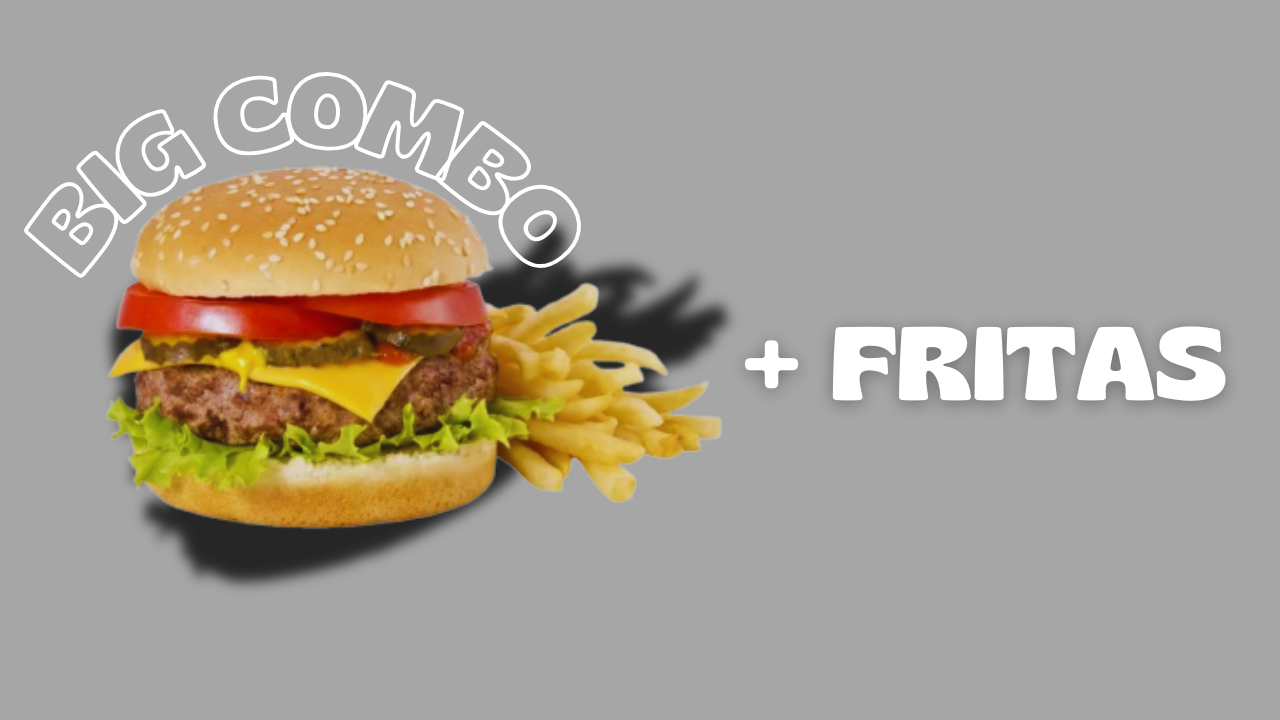
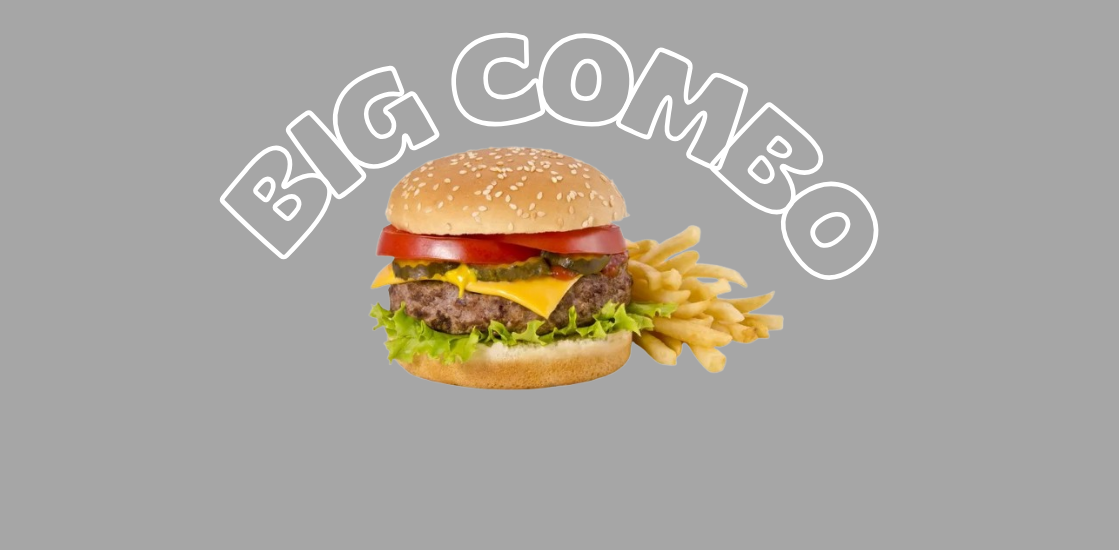
Início Ok!

Changed region(s): [[0.0, 0.0618, 0.9723, 0.8345]]

diff --git a/index.html b/index.html
@@ -3,14 +3,15 @@
 <head>
     <meta charset="UTF-8">
     <meta name="viewport" content="width=device-width, initial-scale=1.0">
-    <link rel="stylesheet" href="/Css/style.css">
     <link rel="stylesheet" href="/Css/root.css">
+    <link rel="stylesheet" href="/Css/style.css">
+    <link rel="stylesheet" href="/Css/responsiveness.css">
     <title>Delícia de Lanche</title>
 </head>
 <body>
     <header class="header-guide">
         <div class="logo">
-            <img src="/imgs/marca/logo.png" alt="logo" width="200">
+            <img src="/imgs/marca/logo.png" alt="logo">
         </div>
         <nav class="navegation">
             <a href="">Início</a>
@@ -48,8 +49,35 @@
                 </span>
             </div>
             <div class="products_contents">
-                <div class="all_products">
-                   <img src="/imgs/lanches_slide/doublechiken.png" alt="">
+                <div class="products_slide">
+                    <input type="radio" name="radio-btn" id="radio1">
+                    <input type="radio" name="radio-btn" id="radio2">
+                    <input type="radio" name="radio-btn" id="radio3">
+                    
+                    <span class="slide first">
+                        <img src="/imgs/lanches_slide/doublechiken.png" alt="Double Chiken">
+                    </span>
+                    <span class="slide">
+                        <img src="/imgs/lanches_slide/bigcombo.png" alt="Big Combo">
+                    </span>
+                    <span class="slide">
+                        <img src="/imgs/lanches_slide/bigmash.png" alt="Bigc Mash">
+                    </span>
+                    
+                    <div class="navigation-auto">
+                        <div class="auto_btn1">
+                        </div>
+                        <div class="auto_btn2">
+                        </div>
+                        <div class="auto_btn3">
+                        </div>
+                    </div>
+                    
+                    <div class="manual_navigation">
+                        <label for="radio1" class="manual_btn"></label>
+                        <label for="radio2" class="manual_btn"></label>
+                        <label for="radio3" class="manual_btn"></label>
+                    </div>
                 </div>
             </div>
         </div>
@@ -72,5 +100,6 @@
             
         </span>
     </footer>
+    <script src="/Js/main.js"></script>
 </body>
 </html>

diff --git a/Css/style.css b/Css/style.css
@@ -15,7 +15,8 @@ body{
     display: flex;
     align-items: center;
     position: relative;
-    width: 90%; 
+    width: 100%; 
+    height: 5.5rem;
     background-color: var(--background-color);
     box-shadow: var(--shadow-box);
     padding: 10px 20px;
@@ -23,9 +24,9 @@ body{
     border-radius: 10px;
 }
 
-.header-guide .logo{
-    display: flex;
-    align-items: center;
+.header-guide .logo img{
+    margin-left: 20px;
+    width: 10rem;
 }
 
 .navegation{
@@ -86,7 +87,8 @@ body{
 }
 
 .produts .produt-card img{
-    width: 250px;
+    max-width: 250px;
+    min-width: 50px;
     padding: 40px;
     cursor: pointer;
 }
@@ -110,20 +112,102 @@ body{
 /* Caixa de produtos*/
 
 .products_contents{
-    width: 100%;
-    height: auto;
-    border: solid 1px;
+    margin: 0 auto;
+    width: 90%;
     border-radius: 10px;
     overflow: auto;
-    box-shadow: 0px 0px 30px 5px;
+    box-shadow: 0px 0px 30px;
+    overflow: hidden;
 }
 
-.products_contents h1{
-    text-align: center;
+.products_slide input{
+    display: none;
 }
 
-.products_contents img{
+.products_slide{
+    width: 400%;
+    height: auto;
+    display: flex;
+}
+
+.slide{
+    width: 25%;
+    position: relative;
+    transition: ease-out 1.5s;
+}
+
+.slide img{
     width: 100%;
+}
+
+.manual_navigation{
+    position: absolute;
+    width: 80%;
+    margin-top: 39%;
+    display: flex;
+    justify-content: center;
+}
+
+.manual_btn{
+    cursor: pointer;
+    border: 2px solid whitesmoke;
+    padding: 5px;
+    border-radius: 10px;
+    transition: 0.5s;
+}
+
+.manual_btn:not(:last-child){
+    margin-right: 20px;
+}
+
+.manual_btn:hover{
+    background-color: rgb(126, 126, 126);
+}
+
+.navigation-auto div{
+    border: 2px solid blue;
+    padding: 5px;
+    border-radius: 10px;
+    cursor: pointer;
+    transition: 0.5s;
+}
+
+.navigation-auto{
+    position: absolute;
+    width: 80%;
+    margin-top: 39%;
+    display: flex;
+    justify-content: center;
+}
+
+.navigation-auto div:not(:last-child){
+    margin-right: 20px;
+}
+
+/* Slide function*/
+
+#radio1:checked ~ .first{
+    margin-left: 0;
+}
+
+#radio2:checked ~ .first{
+    margin-left: -25%;
+}
+
+#radio3:checked ~ .first{
+    margin-left: -50%;
+}
+
+#radio1:checked ~ .navigation-auto .auto_btn1{
+    background-color: white;
+}
+
+#radio2:checked ~ .navigation-auto .auto_btn2{
+    background-color: white;
+}
+
+#radio3:checked ~ .navigation-auto .auto_btn3{
+    background-color: white;
 }
 
 /* Footer */

diff --git a/pages/historia.html b/pages/historia.html
@@ -3,8 +3,9 @@
 <head>
     <meta charset="UTF-8">
     <meta name="viewport" content="width=device-width, initial-scale=1.0">
-    <link rel="stylesheet" href="/Css/style.css">
     <link rel="stylesheet" href="/Css/root.css">
+    <link rel="stylesheet" href="/Css/style.css">
+    <link rel="stylesheet" href="/Css/responsiveness.css">
     <title>História</title>
 </head>
 <body>

diff --git a/pages/delivery.html b/pages/delivery.html
@@ -3,8 +3,9 @@
 <head>
     <meta charset="UTF-8">
     <meta name="viewport" content="width=device-width, initial-scale=1.0">
-    <link rel="stylesheet" href="/Css/style.css">
     <link rel="stylesheet" href="/Css/root.css">
+    <link rel="stylesheet" href="/Css/style.css">
+    <link rel="stylesheet" href="/Css/responsiveness.css">
     <title>Delivery</title>
 </head>
 <body>

diff --git a/pages/cupons.html b/pages/cupons.html
@@ -3,8 +3,9 @@
 <head>
     <meta charset="UTF-8">
     <meta name="viewport" content="width=device-width, initial-scale=1.0">
-    <link rel="stylesheet" href="/Css/style.css">
     <link rel="stylesheet" href="/Css/root.css">
+    <link rel="stylesheet" href="/Css/style.css">
+    <link rel="stylesheet" href="/Css/responsiveness.css">
     <title>Cupons</title>
 </head>
 <body>

diff --git a/pages/cardapio.html b/pages/cardapio.html
@@ -5,6 +5,7 @@
     <meta name="viewport" content="width=device-width, initial-scale=1.0">
     <link rel="stylesheet" href="/Css/root.css">
     <link rel="stylesheet" href="/Css/style.css">
+    <link rel="stylesheet" href="/Css/responsiveness.css">
     <title>Cardápio</title>
 </head>
 <body>

diff --git a/Js/main.js b/Js/main.js
@@ -1,0 +1,14 @@
+let count = 1;
+document.getElementById("radio1").checked = true;
+
+setInterval(function(){
+    nextImage()
+}, 5000)
+
+function nextImage(){
+    count++;
+    if(count>3){
+        count = 1;
+    }
+    document.getElementById("radio"+count).checked = true;
+}

diff --git a/Css/responsiveness.css b/Css/responsiveness.css
@@ -1,0 +1,8 @@
+@media screen and (max-width:1000px){
+    .header-guide .logo{
+        display: none;
+    }
+    .produts .produt-card img{
+        display: none;
+    }
+}
